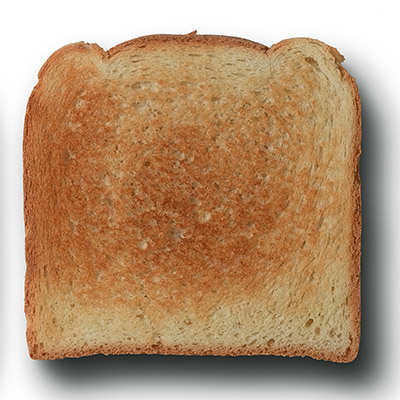
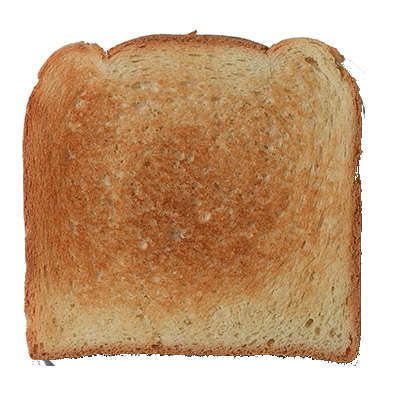
Got rid of white background on toast images

Changed region(s): [[0.06, 0.12, 1.0, 1.0], [0.0, 0.33, 0.06, 0.93]]

diff --git a/src/toastGame/MainInitializer.java b/src/toastGame/MainInitializer.java
@@ -41,9 +41,6 @@ public class MainInitializer implements Initializable {
 	 */
 	@FXML
 	protected void handleButtonAction(ActionEvent event) throws IOException {
-		System.out.println("Button Pressed!");
-		// When submit is pressed, calls the submit toast method
-
 		if (event.getSource().equals(play)) {
 			openPlay();
 		}
